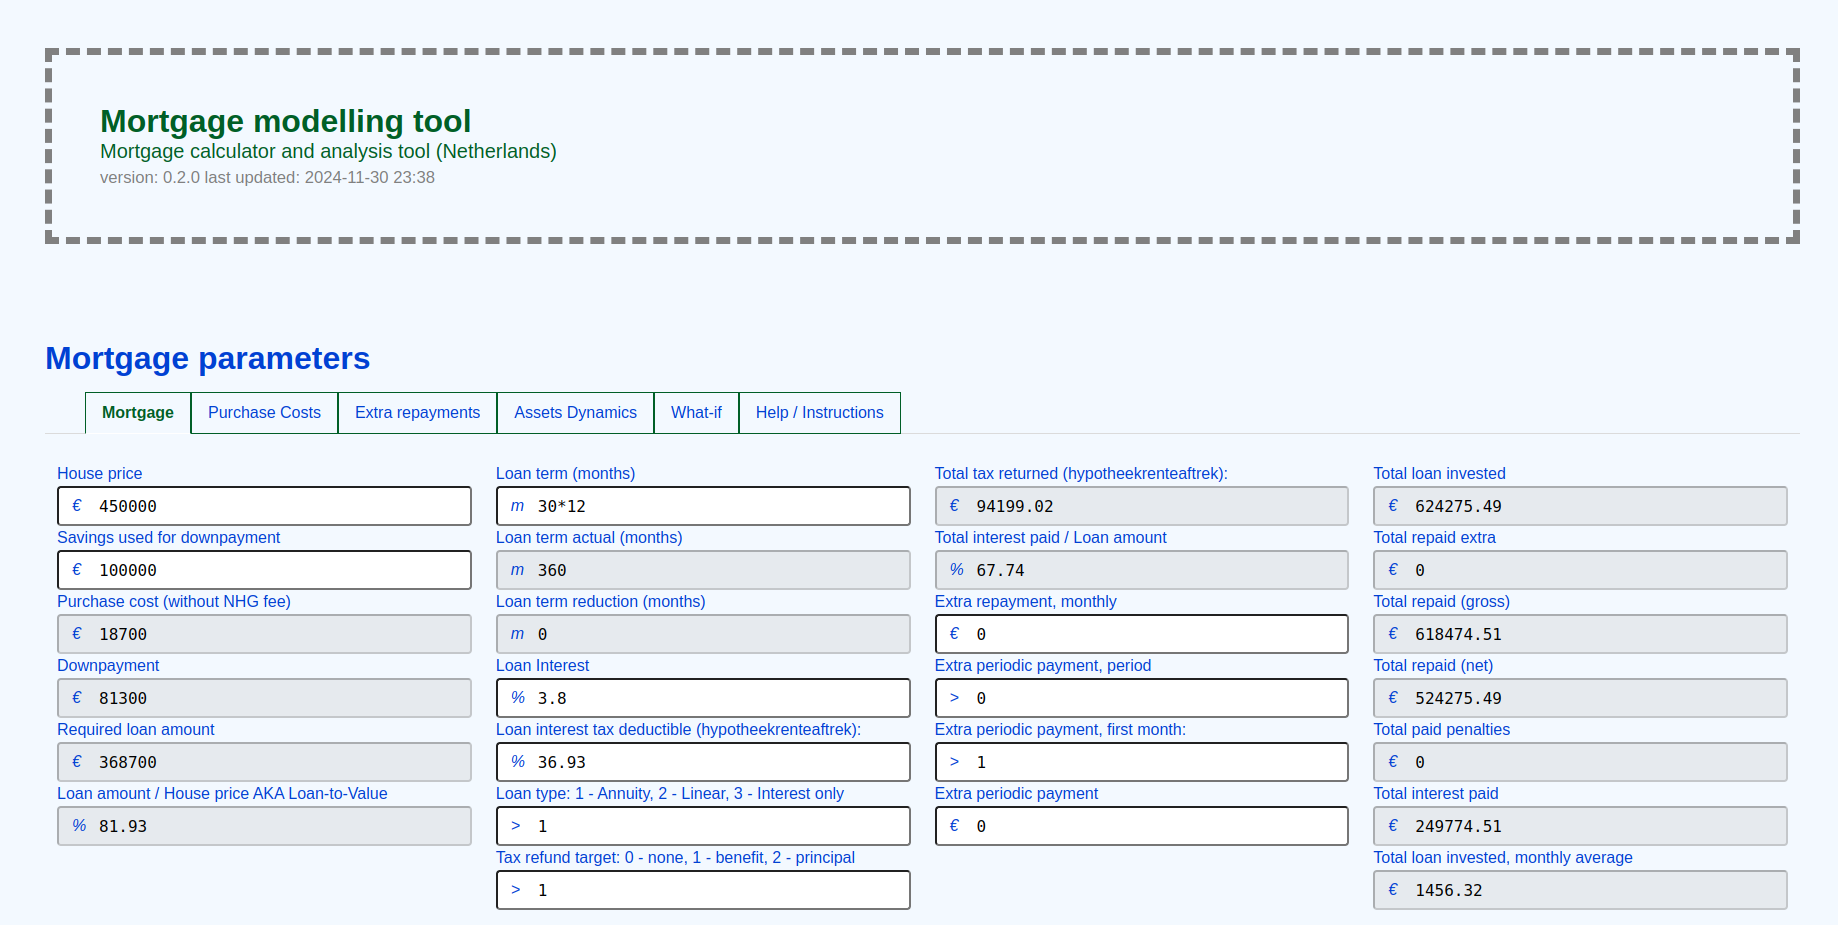
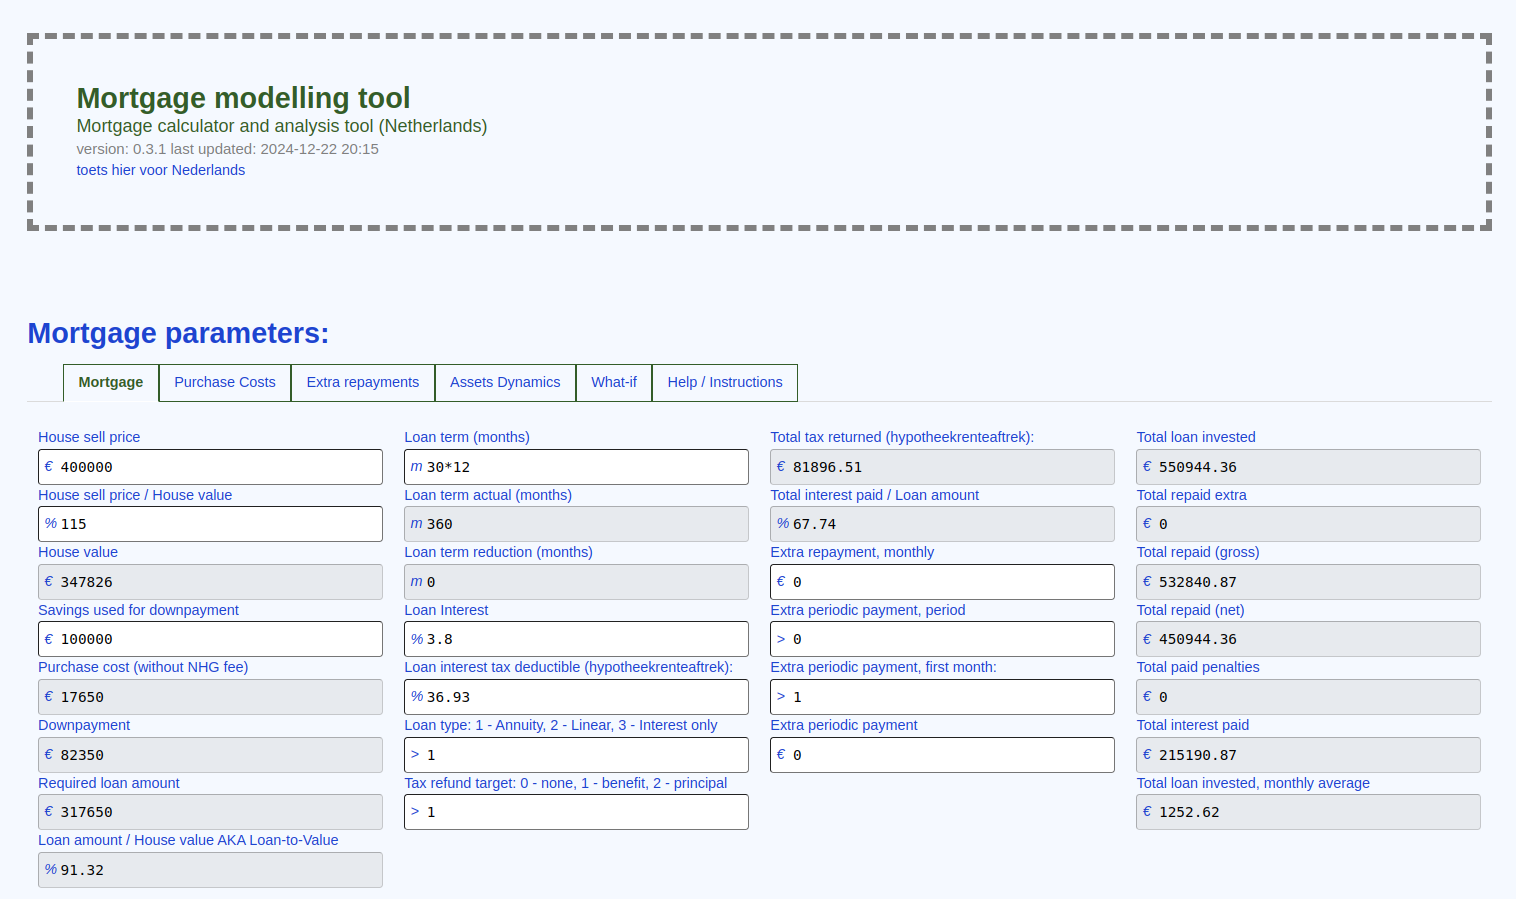
deploy, patch, version: 0.3.3

Changed region(s): [[0.0, 0.3426, 0.9611, 0.9967], [0.0, 0.0311, 0.9921, 0.2803]]

diff --git a/index-nl.html b/index-nl.html
@@ -1,6 +1,6 @@
 <!DOCTYPE html>
 
-<html lang="en">
+<html lang="nl">
 
 <head><script async src="https://www.googletagmanager.com/gtag/js?id=G-LLS4MGZ572"></script><script>window.dataLayer = window.dataLayer || [];function gtag(){dataLayer.push(arguments);}; gtag('js', new Date()); gtag('config', 'G-LLS4MGZ572');</script>
     <meta http-equiv="Content-Type" content="text/html; charset=UTF-8">

diff --git a/deploy_info.js b/deploy_info.js
@@ -1,4 +1,4 @@
 var deploy_info = {
-    version : '0.3.2'
-    ,time : '2024-12-22 20:31'
+    version : '0.3.3'
+    ,time : '2024-12-22 21:42'
 };

diff --git a/README.md b/README.md
@@ -3,37 +3,52 @@
 ![Tool screenshot](images/screenshot.png)
 
 ---
-# basic features:
+# features:
 
-* Simple :)
-* Annuity / Linear / Interest-only mortgage types
-* Adjustable additional repayment schedules, monthly, flexible periodic repayments
-* Renting / income parameters for assets ROI modelling
+* Minimalistic design:
+    - virtually no dependencies
+    - no need to install anything for local testing / development
+* Superflexible, yet to get started you only need to provide a handful of figures:
+    - House sell price
+    - Savings used for downpayment
+    - Loan Interest
+    - Loan type
+* Supports 3 most popular mortgage types in Netherlands: "Annuity", "Linear" and "Interest-only"
+* Adjustable additional periodic extra repayment schedules, monthly, flexible periodic repayments:
+    - you can "program" a monthly additional repayment
+    - you can add 3 additional periodic repayments with any periodicity and starting month
+* Adjustable in-place payments (click on any cell in "extra_payment" column in the "Payments schedule"):
+    - for already calculated payment schedule you can "change" any payment in-place and schedule will be recalculated from that month onward.
+* Renting, income parameters for assets ROI modelling:
+    - takes into account deposit rate, house market growth rate, salary and renting information to calculate monthly total assets state and final "ROI" figures
+* What-if modellig provides uni- and bi-parameter mortgage modelling functionality:
+    - to test different loan parameters and to find the most convenient/profitable mortgage configuration
 
 ---
 # "What-if" modelling:
 
-Allowes for mortgage modelling as a function of a parameter.
-* any adjustable mortgage parameter can be "probed" on a range of values (e.g. extra monthly repayment).
-* resulting output parameters of the mortgage then plotted on the graph (e.g. actual mortgage term).
+Allowes for mortgage modelling as a function of a parameter(s).
+* Any adjustable mortgage parameter can be "probed" on a range of values (e.g. extra monthly repayment).
+    - you'll see the parameter variable name when you hover mouse over the input field for it
+* Resulting output parameters of the mortgage then plotted on the graph (e.g. actual mortgage term).
 
 ![what-if analysis, 2d](images/screenshot-whatif.png)
 
 Allowes bi-parametric modelling.
-* with two parameters being "tested" - target metric drawn on a 3-D surface plot (e.g. Housing assets ROI).
+* With two parameters being "tested" - target metric drawn on a 3-D surface plot (e.g. Housing assets ROI).
 
 ![what-if analysis, 3d](images/screenshot-whatif2.png)
 
 ---
 # hosted on github pages:
 
- * https://r0d1on.github.io/mortgage-tool/
-
+ * [Mortgage expense calculator, English](https://r0d1on.github.io/mortgage-tool/)
+ * [Hypotheekbetalingscalculator, Nederlands](https://r0d1on.github.io/mortgage-tool/index-nl.html)
 
 ---
 # Local development / testing:
 
-1. Clone the repo: `git clone https://github.com/r0d1on/mortgage-tool`
+1. clone the repo: `git clone https://github.com/r0d1on/mortgage-tool`
 2. make changes
 3. open `index.html` in your browser
 
@@ -42,6 +57,7 @@ Allowes bi-parametric modelling.
 # How to contribute:
 
 All contributions you make are **highly appreciated**.
+
 
 ## Add changes, open a pull request
 
